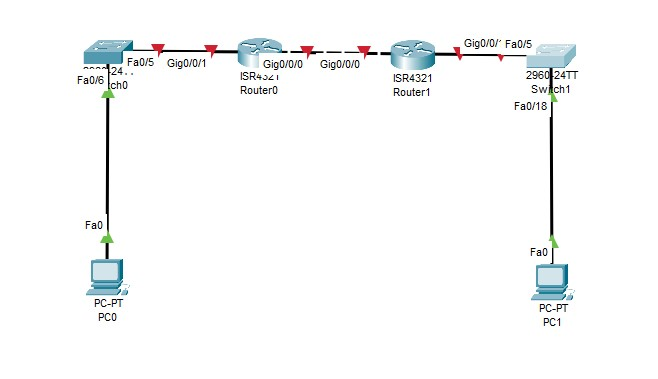
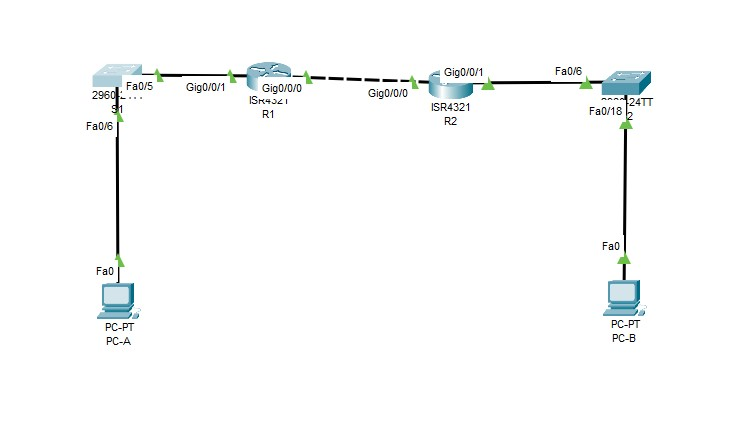
1

Changed region(s): [[0.1216, 0.0871, 0.8815, 0.8707]]

diff --git a/labs_otus/lab_18/lab18dhcp4.md b/labs_otus/lab_18/lab18dhcp4.md
@@ -171,7 +171,7 @@
 
 > S1(config)#exit
 
-> S1(config)#copy running-config startup-config
+> S1#copy running-config startup-config
 
 > S1#clock set 15:05:00 27 Mar 2022
 
@@ -221,9 +221,7 @@
 
 # НАСТРОЙКА МАРШРУТИЗАТОРА R1#
 
-#  R1  Gi0/1#
-
-
+#  R1  Gi0/0/1#
 
 > R1(config)#interface Gi0/0/1.100
 
@@ -262,11 +260,12 @@
 
 > R1(config-subif)#exit
 
-R1(config)#interface Gi0/0/1
+> R1(config)#interface Gi0/0/1
 
-R1(config-if)#no shutdown
+>R1(config-if)#no shutdown
 
-R1(config-if)#
+> R1(config-if)#
+
 
     %LINK-5-CHANGED: Interface GigabitEthernet0/0/1, changed state to up
 
@@ -286,18 +285,7 @@ R1(config-if)#
 
 
 
-
-
-
-
-
-
-
-
-
-
-
-# R1  Gi0/0#
+# R1  Gi0/0/0#
 
 > R1(config)#interface Gi0/0/0
 
@@ -309,16 +297,11 @@ R1(config-if)#
 
 > R1(config-if)#exit
 
-
-
-
-
-
-
+#####################################################################################
 
 # НАСТРОЙКА МАРШРУТИЗАТОРА R2#
 
-# R2  Gi0/0#
+# R2  Gi0/0/0#
 
 > R2(config)#interface Gi0/0/0
 
@@ -332,7 +315,7 @@ R1(config-if)#
 
 > R2(config-if)#exit
 
-#  R2  Gi0/1#
+#  R2  Gi0/0/1#
 
 > R2(config)#interface Gi0/0/1
 
@@ -345,6 +328,9 @@ R1(config-if)#
 %LINEPROTO-5-UPDOWN: Line protocol on Interface GigabitEthernet0/0/1, changed state to up
 
 > R2(config-if)#end
+
+##########################################################################
+
 
 > # НАСТРОЙКА МАРШРУТов по умолчанию#
 
@@ -359,33 +345,10 @@ R1(config-if)#
     Success rate is 100 percent (5/5), round-trip min/avg/max = 4/8/12 ms
 
 
-# НАСТРОЙКА S2#
+##########################################################################    
 
 
-
-# fa0/18 S-PC#
-
-S2(config-if)#interface fa0/18
-
-S2(config-if)#switchport mode access
-
-S2(config-if)#Switchport trunk allowed vlan 1
-
-S2(config-if)#no shutdown
-
-S2(config-if)#exit
-
-S2(config)#vlan 1
-S2(config-vlan)#interface fa0/18
-S2(config-if)# no shutdown
-
-S2(config-if)#
-%LINK-5-CHANGED: Interface FastEthernet0/18, changed state to up
-
-%LINEPROTO-5-UPDOWN: Line protocol on Interface FastEthernet0/18, changed state to up
-
-
-
+# НАСТРОЙКА КОММУТАТОРА S2#
 
 # S2 Vlan #
 
@@ -410,55 +373,23 @@ S2(config-if)#no shutdown
     %LINEPROTO-5-UPDOWN: Line protocol on Interface Vlan1, changed state to up
 
 
-# S2 shutdown port f0/5#
+##########################################################################
 
-S1(config)#interface f0/5
-S1(config-if)#switchport mode trunk
-S1(config-if)#Switchport trunk native vlan 1000
-S1(config-if)#switchport trunk allowed vlan 1,1000
+# S2    ОТКЛЮЧЕНИЕ НЕИСПОЛЬЗОВАННЫХ ПОРТОВ #
 
-
-
-
-
-
-
-
-
-
-
-
-
-# S2 shutdown port#
-
-S2(config)#interface range Gi0/0-1, Gi1/0-3
-
-S2(config-if-range)#switchport trunk encapsulation dot1q
+S2(config)#S2(config)#interface range f0/1-4, f0/6-17, f0/19-24, g0/1-2
 
 S2(config-if-range)#switchport mode access
 
-S2(config-if)#shutdown
-
-    *Jun 10 09:11:23.391: %LINK-5-CHANGED: Interface GigabitEthernet0/0, changed state to administratively down
-    *Jun 10 09:11:23.474: %LINK-5-CHANGED: Interface GigabitEthernet0/1, changed state to administratively down
-    *Jun 10 09:11:23.543: %LINK-5-CHANGED: Interface GigabitEthernet1/0, changed state to administratively down
-    *Jun 10 09:11:23.658: %LINK-5-CHANGED: Interface GigabitEthernet1/1, changed state to administratively down
-    *Jun 10 09:11:23.732: %LINK-5-CHANGED: Interface GigabitEthernet1/2, changed state to administratively down
-    *Jun 10 09:11:23.799: %LINK-5-CHANGED: Interface GigabitEthernet1/3, changed state to administratively down
-    *Jun 10 09:11:24.393: %LINEPROTO-5-UPDOWN: Line protocol on Interface GigabitEthernet0/0, changed state to down
-    S2(config-if-range)#
-    *Jun 10 09:11:24.474: %LINEPROTO-5-UPDOWN: Line protocol on Interface GigabitEthernet0/1, changed state to down
-    *Jun 10 09:11:24.542: %LINEPROTO-5-UPDOWN: Line protocol on Interface GigabitEthernet1/0, changed state to down
-    *Jun 10 09:11:24.686: %LINEPROTO-5-UPDOWN: Line protocol on Interface GigabitEthernet1/1, changed state to down
-    *Jun 10 09:11:24.735: %LINEPROTO-5-UPDOWN: Line protocol on Interface GigabitEthernet1/2, changed state to down
-    *Jun 10 09:11:24.804: %LINEPROTO-5-UPDOWN: Line protocol on Interface GigabitEthernet1/3, changed state to down
+S2(config-if-range)#shutdown
 
 
 
- 
 
 
-# НАСТРОЙКА S1#
+
+
+# НАСТРОЙКА КОММУТАТОРА S1#
 
 #  Vlan #
 
@@ -479,8 +410,6 @@ S1(config-vlan)#
     %LINEPROTO-5-UPDOWN: Line protocol on Interface Vlan200, changed state to up
 
 
-
-
 S1(config)# vlan 999
 
 S1(config-vlan)#name ParkingLot
@@ -494,39 +423,83 @@ S1(config)# vlan 200
 
 S1(config-vlan)#name Management
 
-# Gi0/2 S-comp Gi0/3#
+# S1 shutdown port f0/5#
 
-S1(config)#interface Gi0/3
+S1(config)#interface f0/5
 
-S1(config-if)#switchport mode access
+S1(config-if)#switchport mode trunk
 
-S1(config-if)#Switchport access vlan 200
+S1(config-if)#Switchport trunk native vlan 1000
 
-S1(config-vlan)#exit
+S1(config-if)#switchport trunk allowed vlan 1,1000
 
-S1(config-if)#no shutdown
+# S1 ОТКЛЮЧЕНИЕ НЕ ИСПОЛЬЗУЕМЫХ ПОРТОВ#
 
-S1(config)#exit
+S1(config)#interface range F0/2-4, F0/7-24, G0/1-2
 
-S1(config-if)#shutdown
+S1(config-if-range)#switchport mode access
 
-S1(config)#interface vlan 999
+S1(config-if-range)#switchport access vlan 999
 
-S2(config-vlan)#name ParkingLot
+S1(config-if-range)#shutdown
 
+    %LINK-5-CHANGED: Interface FastEthernet0/2, changed state to administratively down
+
+    %LINK-5-CHANGED: Interface FastEthernet0/3, changed state to administratively down
+
+    %LINK-5-CHANGED: Interface FastEthernet0/4, changed state to administratively down
+
+    %LINK-5-CHANGED: Interface FastEthernet0/7, changed state to administratively down
+
+    %LINK-5-CHANGED: Interface FastEthernet0/8, changed state to administratively down
+
+    %LINK-5-CHANGED: Interface FastEthernet0/9, changed state to administratively down
+
+    %LINK-5-CHANGED: Interface FastEthernet0/10, changed state to administratively down
+
+    %LINK-5-CHANGED: Interface FastEthernet0/11, changed state to administratively down
+
+    %LINK-5-CHANGED: Interface FastEthernet0/12, changed state to administratively down
+
+    %LINK-5-CHANGED: Interface FastEthernet0/13, changed state to administratively down
+
+    %LINK-5-CHANGED: Interface FastEthernet0/14, changed state to administratively down
+
+    %LINK-5-CHANGED: Interface FastEthernet0/15, changed state to administratively down
+
+    %LINK-5-CHANGED: Interface FastEthernet0/16, changed state to administratively down
+
+    %LINK-5-CHANGED: Interface FastEthernet0/17, changed state to administratively down
+
+    %LINK-5-CHANGED: Interface FastEthernet0/18, changed state to administratively down
+
+    %LINK-5-CHANGED: Interface FastEthernet0/19, changed state to administratively down
+
+    %LINK-5-CHANGED: Interface FastEthernet0/20, changed state to administratively down
+
+    %LINK-5-CHANGED: Interface FastEthernet0/21, changed state to administratively down
+
+    %LINK-5-CHANGED: Interface FastEthernet0/22, changed state to administratively down
+
+    %LINK-5-CHANGED: Interface FastEthernet0/23, changed state to administratively down
+
+    %LINK-5-CHANGED: Interface FastEthernet0/24, changed state to administratively down
+
+    %LINK-5-CHANGED: Interface GigabitEthernet0/1, changed state to administratively down
+
+    %LINK-5-CHANGED: Interface GigabitEthernet0/2, changed state to administratively down
 
 
 *Почему интерфейс F0/5 указан в VLAN 1?*
 
-
-
-
-
-
+Порт в состоянии trunk
 
 *Какой IP-адрес был бы у ПК, если бы он был подключен к сети с помощью DHCP?*
 
-![](https://github.com/netdoms/repozit/blob/main/labs_otus/lab_18/3.jpg "")
+![](https://github.com/netdoms/repozit/blob/main/labs_otus/lab_18/2.jpg "")
+
+
+##########################################################################
 
 # Настройте R1 с пулами DHCPv4 для двух поддерживаемых подсетей. #
 
@@ -543,10 +516,11 @@ R1(config)#default-router 192.168.1.1
 
 R1(config)#domain-name CCNA-lab.com
 
+R1(config)#lease 2 12 30
+
+*lease This command was introduced. Release 12.3(8)T*
+
 R1(config)#end
-
-
-R1(config)#ip dhcp excluded-address 192.168.1.97 192.168.1.100
 
 
 
@@ -554,10 +528,50 @@ R1(config)#ip dhcp pool C-1
 
 R1(config)#domain-name R2_Client_LAN 
 
-R1(config)#network 192.168.1.0 255.255.255.240
+R1(config)#ip dhcp excluded-address 192.168.1.97 192.168.1.100
+
+R1(config)#network 192.168.1.96 255.255.255.240
 
 R1(config)#default-router 192.168.1.97
 
 R1(config)#dns-server 192.168.1.97
+
+R1(config)#lease 2 12 30
+
+*lease This command was introduced. Release 12.3(8)T*
+
 R1(config)#end
 
+# Проверка конфигурации сервера DHCPv4 #
+
+![](https://github.com/netdoms/repozit/blob/main/labs_otus/lab_18/3.jpg "")
+
+![](https://github.com/netdoms/repozit/blob/main/labs_otus/lab_18/4.jpg "")
+
+
+# Попытка получить IP-адрес от DHCP на PC-A #
+
+![](https://github.com/netdoms/repozit/blob/main/labs_otus/lab_18/5.jpg "")
+
+
+![](https://github.com/netdoms/repozit/blob/main/labs_otus/lab_18/6.jpg "")
+
+# Настройка и проверка DHCP-ретрансляции на R2 # 
+
+
+R2(config)#interface gi0/0/1
+
+R2(config-if)#ip helper-address 10.0.0.1
+
+R2(config-if)#end
+
+R2#end
+
+R2#copy running-config startup-config
+
+# Попытка получить IP-адрес от DHCP на PC-B #
+
+![](https://github.com/netdoms/repozit/blob/main/labs_otus/lab_18/7.jpg "")
+
+
+![](https://github.com/netdoms/repozit/blob/main/labs_otus/lab_18/4.jpg "")
